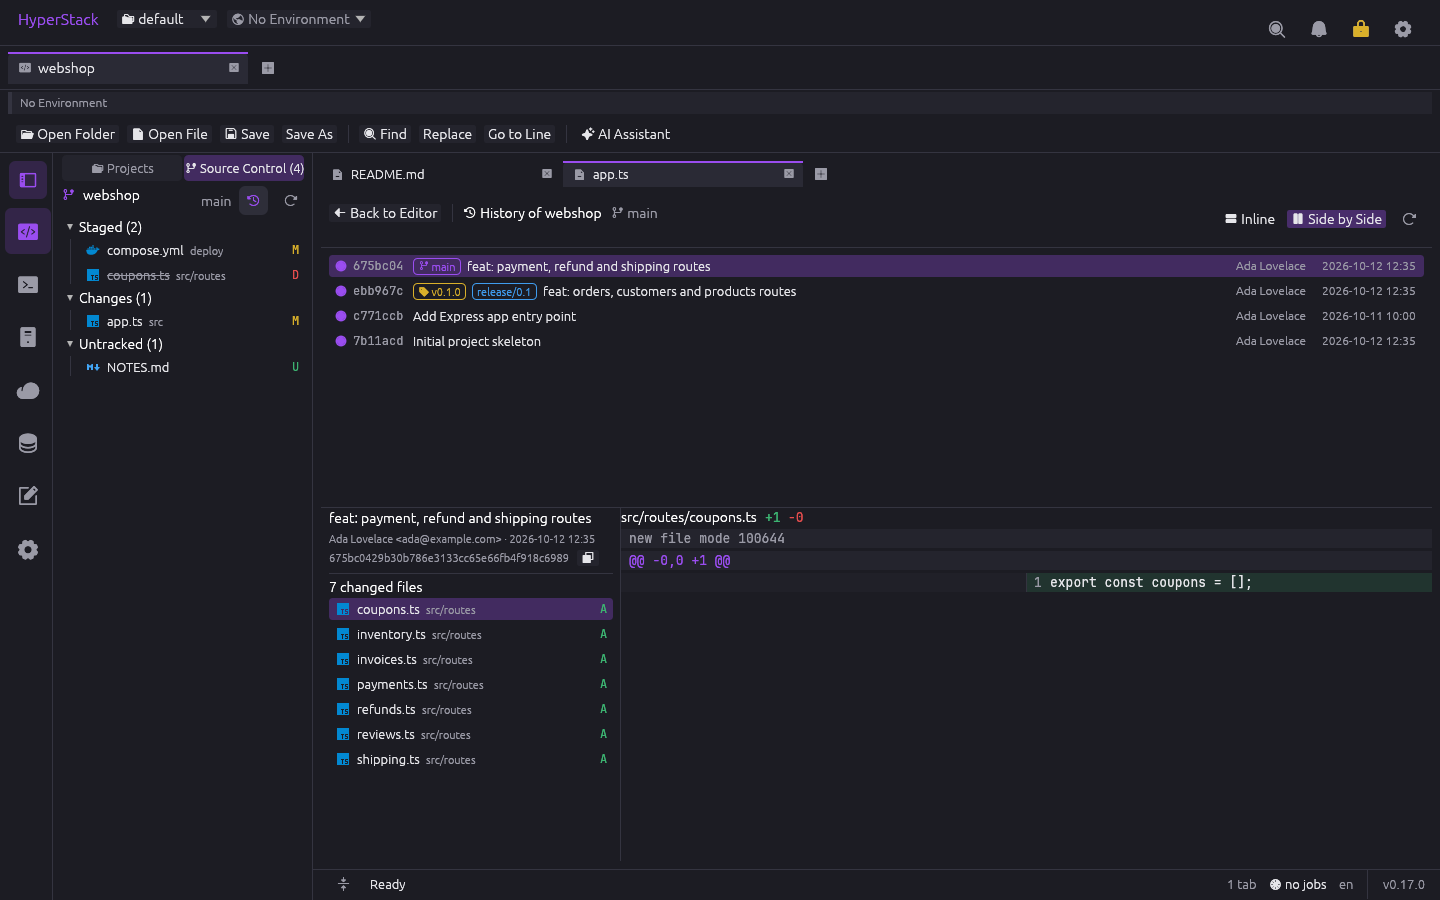
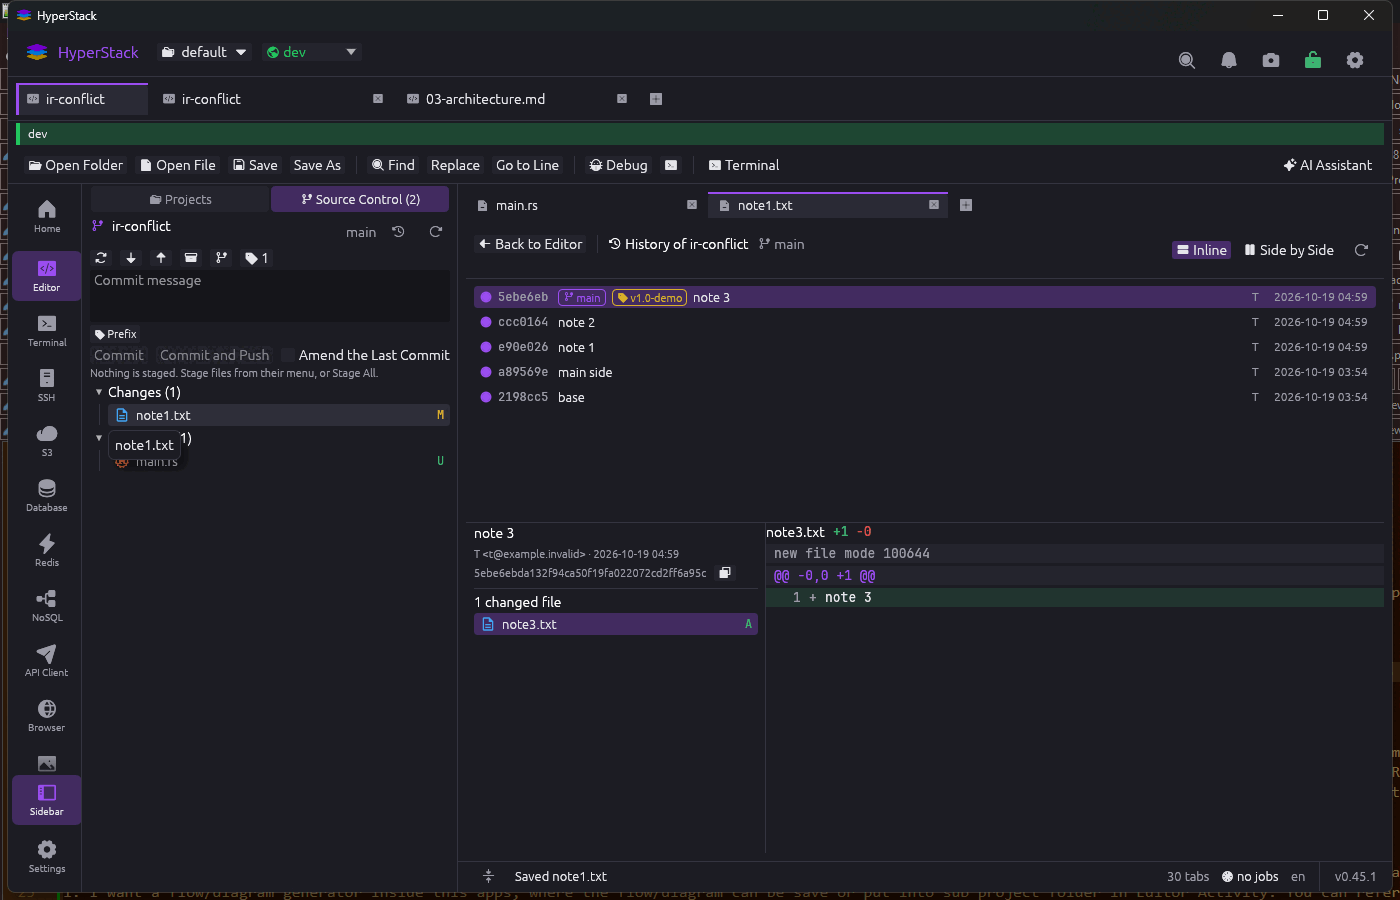
docs: refresh the editor Git tree, diff and history shots
Captured from the ir-conflict fixture: Source Control with a modified\nnote1.txt, its inline diff, and the history list with the v1.0-demo tag.

diff --git a/docs/screenshots/README.md b/docs/screenshots/README.md
@@ -158,6 +158,9 @@ source); `launcher.png`, `command-palette.png`, `dock.png`,
 `workspace-menu.png`, `workspace-new.png`, `environment-switcher.png`,
 `tabs-multi-row.png` (from the 32-tab session before duplicates were closed),
 `vault-unlock.png`, `vault-create.png` (a second instance on a fresh data
-folder) and the SSH and S3 connection forms. The S3 *browser* shots still come
+folder) and the SSH and S3 connection forms. `editor-git-tree.png`,
+`editor-git-diff.png` and `editor-git-history.png` were retaken from the
+ir-conflict fixture: a modified `note1.txt` in Source Control, its inline
+diff, and the commit list with the `v1.0-demo` tag. The S3 *browser* shots still come
 from the earlier moto set; the form is current and shows the provider
 presets.
